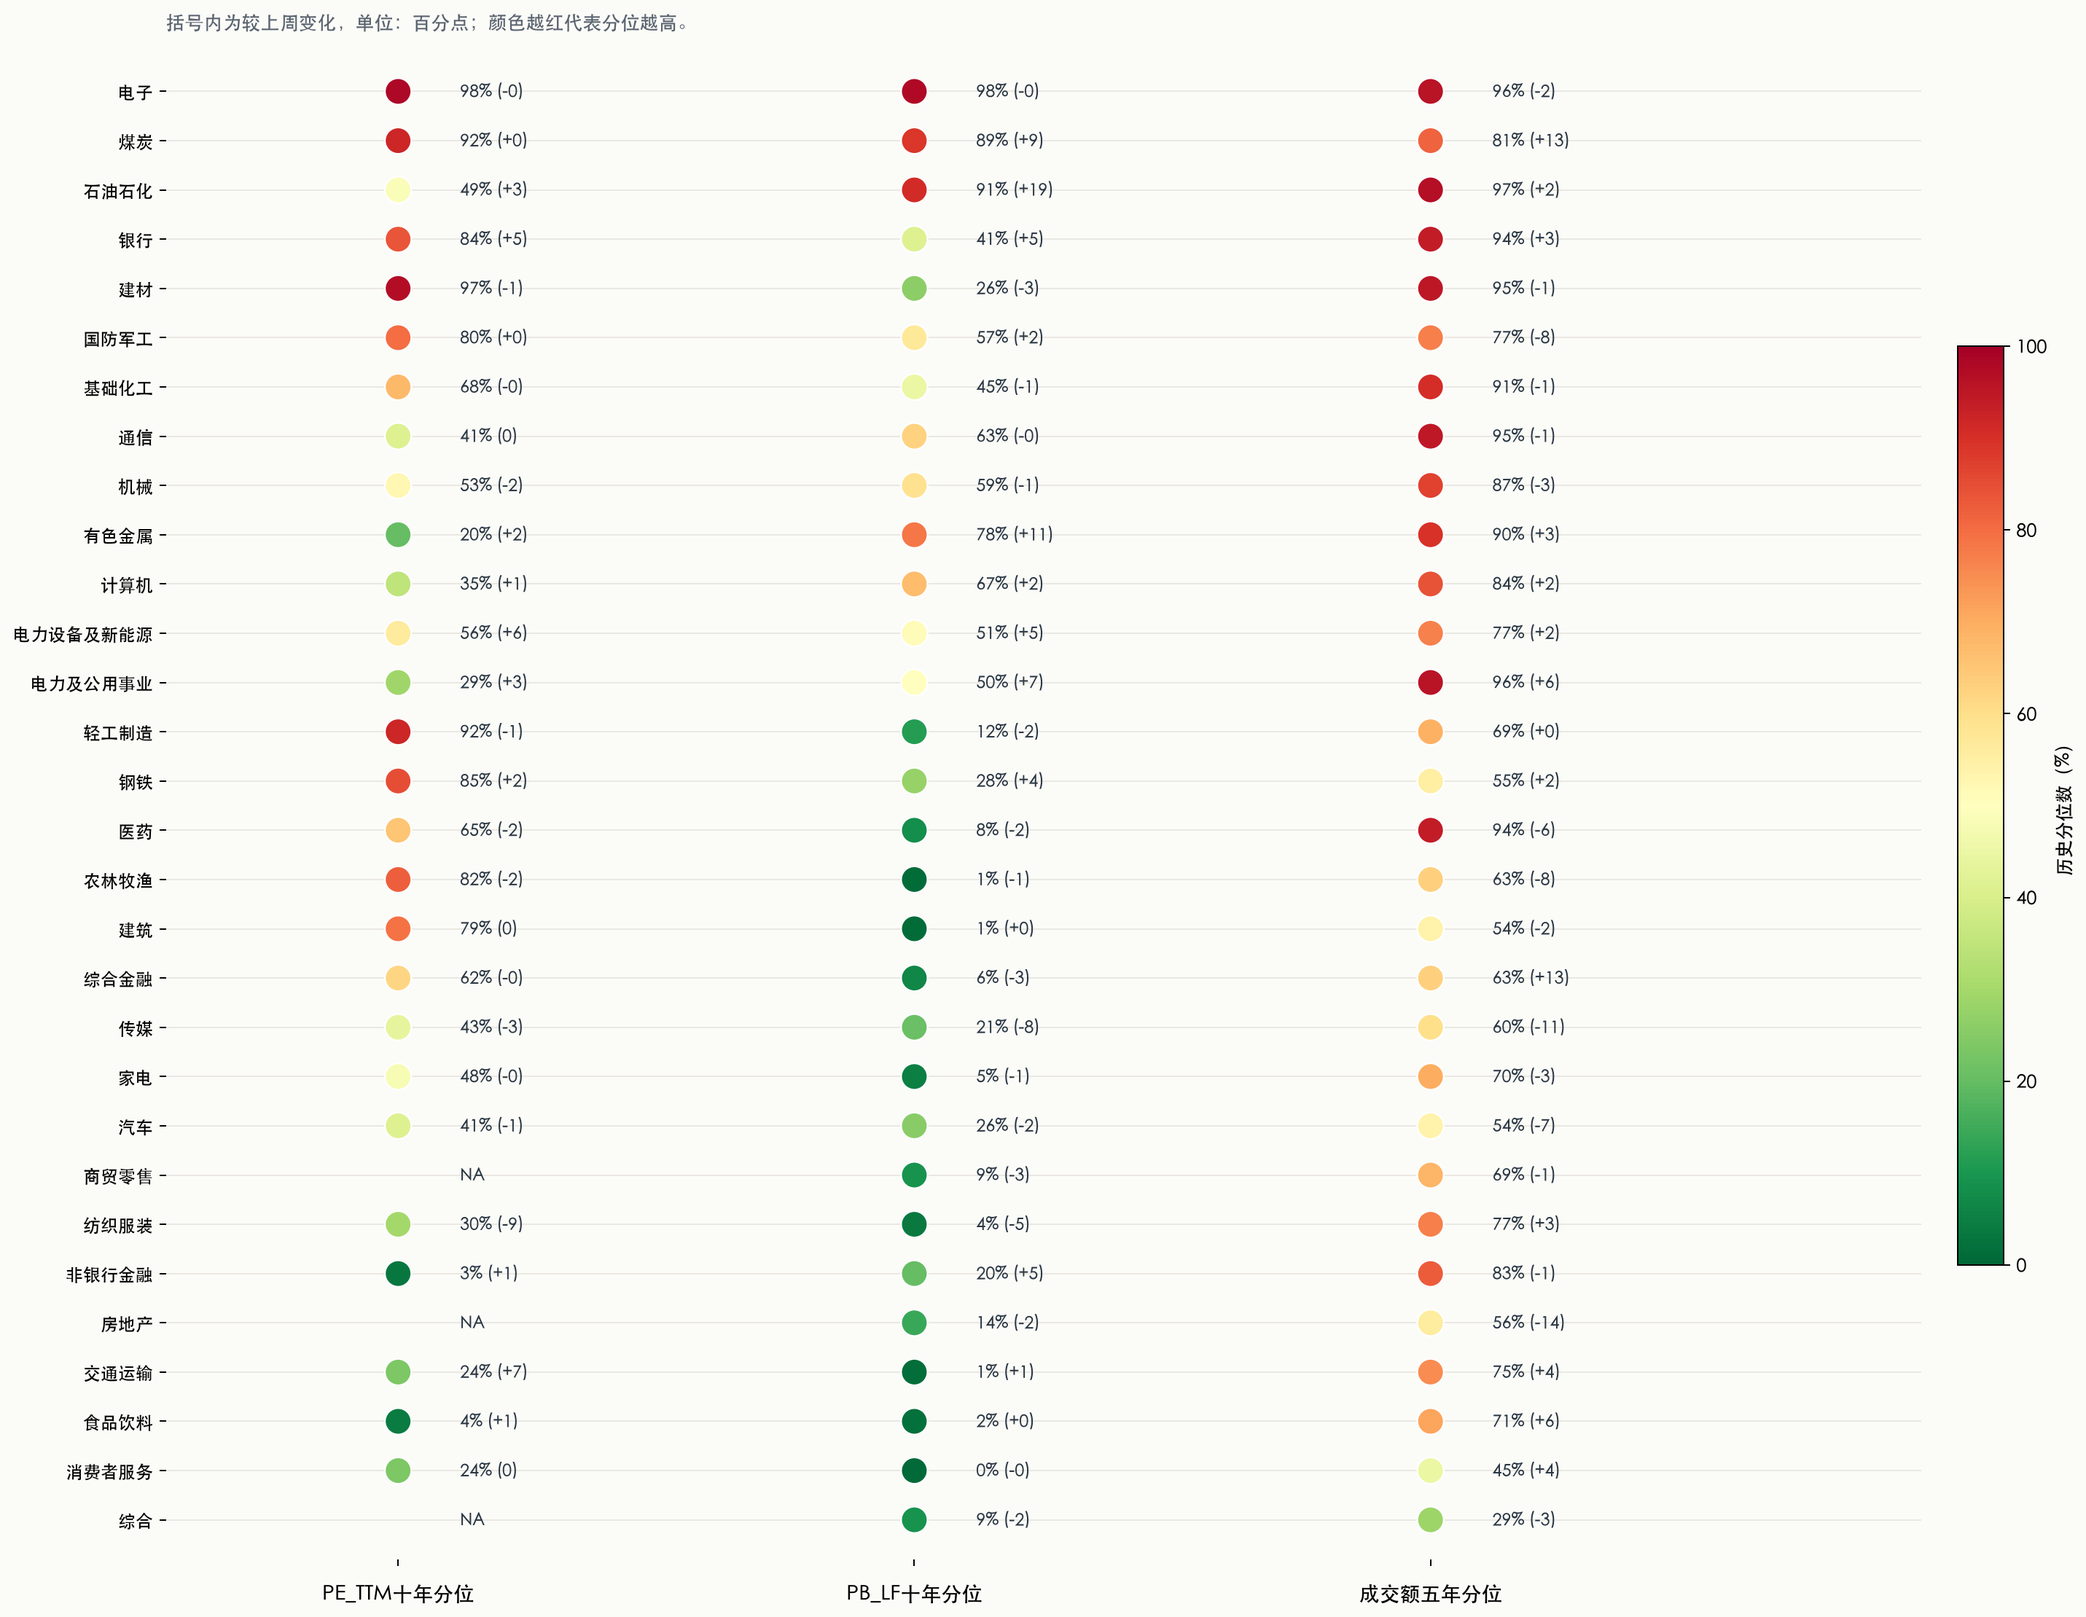
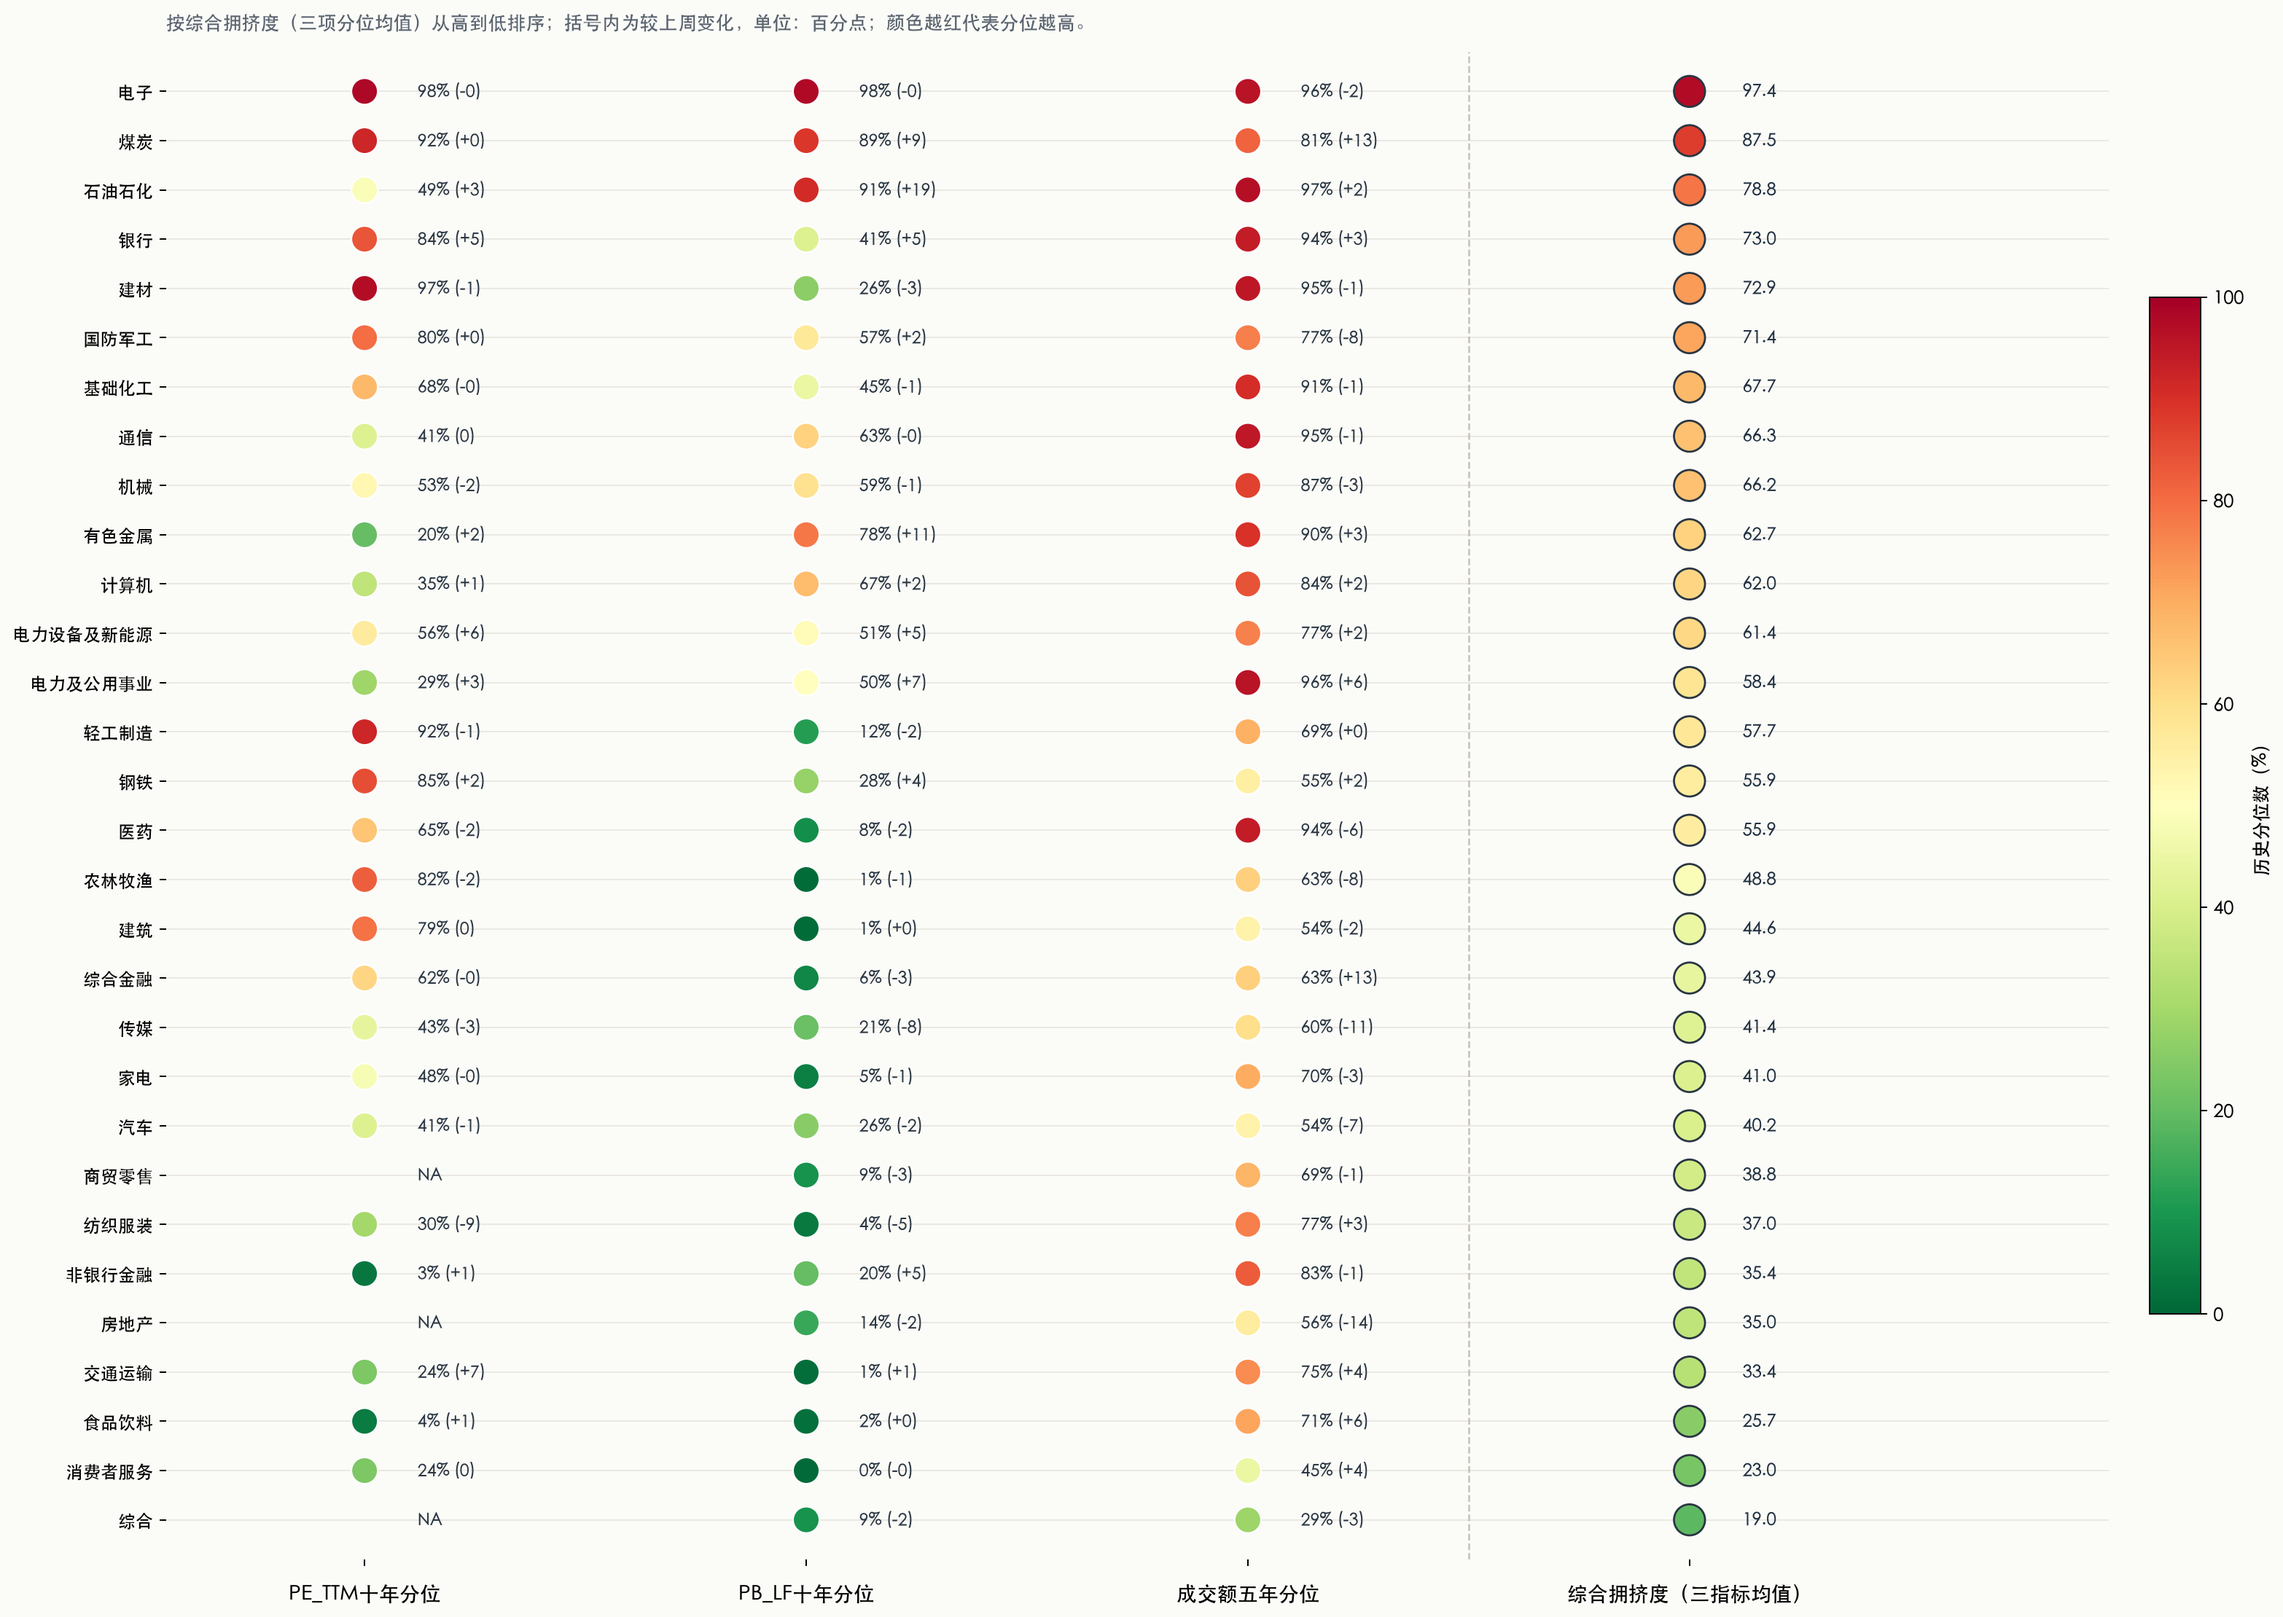
add composite crowding column (mean of three percentiles) and sort industries by it

diff --git a/site/index.html b/site/index.html
@@ -159,7 +159,7 @@
         <h2><span class="chart-num">014</span>中信一级行业估值与成交拥挤度（截至2026-07-26）<span class="freq-badge">周频</span></h2>
         <img src="assets/charts/fig_006_citic_industry_crowding.png?v=20260726" alt="中信一级行业估值与成交拥挤度">
         <div class="chart-notes">
-          <p><strong>数据说明：</strong>按每周最后一个交易日更新。PE_TTM、PB_LF分别计算最近10年历史分位，成交额计算最近5年历史分位；括号为较上周变化，单位为百分点。数据优先使用 Wind API，Wind 不可用时读取本地 CSV。</p>
+          <p><strong>数据说明：</strong>按每周最后一个交易日更新。PE_TTM、PB_LF分别计算最近10年历史分位，成交额计算最近5年历史分位；括号为较上周变化，单位为百分点。综合拥挤度为三项分位最新值的算术均值，行业按综合拥挤度从高到低排序。数据优先使用 Wind API，Wind 不可用时读取本地 CSV。</p>
           <p><strong>风险提示：</strong>拥挤度是估值与交易热度的历史分位观察，不代表买卖建议；若 Wind API 不可用或本地 CSV 未补齐，结果会显示待接入或滞后。</p>
         </div>
       </section>

diff --git a/scripts/build_site_from_processed.py b/scripts/build_site_from_processed.py
@@ -433,42 +433,62 @@ def draw_citic_industry_crowding_chart(df: pd.DataFrame | None, metadata: dict, 
         plt.close(fig)
         return {"path": str(out_path.relative_to(ROOT)), "last_date": "", "status": "missing_data"}
 
-    plot_df = df.copy().sort_values("crowding_score", ascending=True)
+    plot_df = df.copy()
+    pctile_cols = ["pe_ttm_pctile_10y", "pb_lf_pctile_10y", "amount_pctile_5y"]
+    for col in pctile_cols:
+        plot_df[col] = pd.to_numeric(plot_df[col], errors="coerce")
+    if "crowding_score" in plot_df.columns:
+        plot_df["crowding_score"] = pd.to_numeric(plot_df["crowding_score"], errors="coerce")
+    else:
+        plot_df["crowding_score"] = plot_df[pctile_cols].mean(axis=1)
+    plot_df = plot_df.sort_values("crowding_score", ascending=True).reset_index(drop=True)
     metrics = [
         ("pe_ttm_pctile_10y", "PE_TTM十年分位", "pe_ttm_pctile_10y_wow"),
         ("pb_lf_pctile_10y", "PB_LF十年分位", "pb_lf_pctile_10y_wow"),
         ("amount_pctile_5y", "成交额五年分位", "amount_pctile_5y_wow"),
+        ("crowding_score", "综合拥挤度（三指标均值）", None),
     ]
     latest_date = str(plot_df["date"].max())
     fig_h = max(8.5, len(plot_df) * 0.34 + 2.2)
-    fig, ax = plt.subplots(figsize=(16, fig_h), dpi=180)
+    fig, ax = plt.subplots(figsize=(17.5, fig_h), dpi=180)
     fig.patch.set_facecolor("#fbfbf8")
     ax.set_facecolor("#fbfbf8")
     for x_pos, (col, _label, wow_col) in enumerate(metrics):
         values = pd.to_numeric(plot_df[col], errors="coerce")
+        is_composite = col == "crowding_score"
         sc = ax.scatter(
             [x_pos] * len(plot_df),
             range(len(plot_df)),
             c=values,
-            s=210,
+            s=290 if is_composite else 210,
             cmap="RdYlGn_r",
             vmin=0,
             vmax=100,
-            edgecolor="#ffffff",
-            linewidth=0.9,
+            edgecolor="#293642" if is_composite else "#ffffff",
+            linewidth=1.1 if is_composite else 0.9,
             zorder=3,
         )
         for y_pos, (_, row) in enumerate(plot_df.iterrows()):
             value = row[col]
-            wow = row.get(wow_col)
+            wow = row.get(wow_col) if wow_col else None
             if pd.isna(value):
                 label = "NA"
-            elif pd.isna(wow):
-                label = f"{value:.0f}%"
+            elif is_composite or pd.isna(wow):
+                label = f"{value:.1f}" if is_composite else f"{value:.0f}%"
             else:
                 sign = "+" if wow > 0 else ""
                 label = f"{value:.0f}% ({sign}{wow:.0f})"
-            ax.text(x_pos + 0.12, y_pos, label, va="center", ha="left", fontsize=9.2, color="#293642")
+            ax.text(
+                x_pos + 0.12,
+                y_pos,
+                label,
+                va="center",
+                ha="left",
+                fontsize=9.6 if is_composite else 9.2,
+                fontweight="bold" if is_composite else "normal",
+                color="#203040" if is_composite else "#293642",
+            )
+    ax.axvline(len(metrics) - 1.5, linestyle="--", color="#b8b3a8", linewidth=1.0, alpha=0.8)
     ax.set_yticks(range(len(plot_df)), plot_df["industry"])
     ax.set_xticks(range(len(metrics)), [label for _col, label, _wow_col in metrics])
     ax.tick_params(axis="x", labelsize=11, pad=10)
@@ -476,7 +496,7 @@ def draw_citic_industry_crowding_chart(df: pd.DataFrame | None, metadata: dict, 
     ax.set_xlim(-0.45, len(metrics) - 0.05)
     ax.set_ylim(-0.8, len(plot_df) - 0.2)
     ax.grid(axis="y", color="#e2dfd7", linewidth=0.7, alpha=0.75)
-    ax.text(0, 1.015, "括号内为较上周变化，单位：百分点；颜色越红代表分位越高。", transform=ax.transAxes, fontsize=10.5, color="#59636e")
+    ax.text(0, 1.015, "按综合拥挤度（三项分位均值）从高到低排序；括号内为较上周变化，单位：百分点；颜色越红代表分位越高。", transform=ax.transAxes, fontsize=10.5, color="#59636e")
     cbar = fig.colorbar(sc, ax=ax, fraction=0.025, pad=0.02)
     cbar.set_label("历史分位数（%）")
     ax.spines[["top", "right", "left", "bottom"]].set_visible(False)
@@ -783,7 +803,7 @@ def build_page(
         <h2><span class="chart-num">014</span>中信一级行业估值与成交拥挤度（截至{crowding_date}）{freq_badge("周频")}</h2>
         <img src="assets/charts/{Path(industry_crowding_chart["path"]).name}?v={crowding_version}" alt="中信一级行业估值与成交拥挤度">
         {chart_note_block(
-            f"按每周最后一个交易日更新。PE_TTM、PB_LF分别计算最近10年历史分位，成交额计算最近5年历史分位；括号为较上周变化，单位为百分点。数据优先使用 Wind API，Wind 不可用时读取本地 CSV。{crowding_status_note}",
+            f"按每周最后一个交易日更新。PE_TTM、PB_LF分别计算最近10年历史分位，成交额计算最近5年历史分位；括号为较上周变化，单位为百分点。综合拥挤度为三项分位最新值的算术均值，行业按综合拥挤度从高到低排序。数据优先使用 Wind API，Wind 不可用时读取本地 CSV。{crowding_status_note}",
             "拥挤度是估值与交易热度的历史分位观察，不代表买卖建议；若 Wind API 不可用或本地 CSV 未补齐，结果会显示待接入或滞后。",
         )}
       </section>'''
